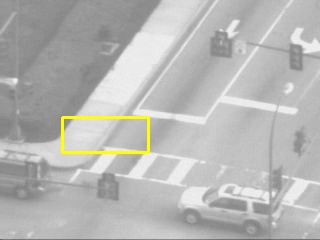
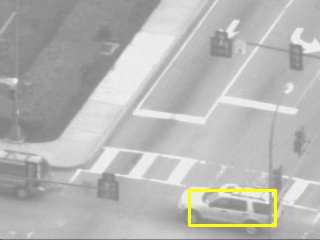
testing HW3 Q1.4

Changed region(s): [[0.5625, 0.7583, 0.875, 0.9625], [0.1875, 0.4667, 0.4688, 0.6708]]

diff --git a/HW3/code/testCarSequenceWithTemplateCorrection.py b/HW3/code/testCarSequenceWithTemplateCorrection.py
@@ -2,5 +2,42 @@ import numpy as np
 import matplotlib.pyplot as plt
 from matplotlib import animation
 import matplotlib.patches as patches
+from LucasKanade import LucasKanade
+import cv2
 
 # write your script here, we recommend the above libraries for making your animation
+sequence = np.load('../data/carseq.npy',allow_pickle=True)
+rect = np.array([59, 116, 145, 151])[...,None].astype(np.float32)
+carseqrects = np.empty((sequence.shape[2],4))
+carseqrects[0] = rect.T.flatten()
+
+pre_p = None
+epsilon = 0.5
+ori_rects = np.load('carseqrects.npy')
+
+It = sequence[:,:,0]
+new_rect = np.empty_like(rect)
+for i in range(1, sequence.shape[2]):
+    It1 = sequence[:,:,i]
+    p =  LucasKanade(It,It1,rect)
+    new_rect[0] = p[0] + rect[0]
+    new_rect[2] = p[0] + rect[2]
+    new_rect[1] = p[1] + rect[1]
+    new_rect[3] = p[1] + rect[3]
+    
+    if i==1 or i == 100 or i==200 or i ==300 or i == 400:
+        img = np.dstack((It1,It1,It1)).copy()
+        cv2.rectangle(img, (np.round(new_rect[0][0]).astype(int), np.round(new_rect[1][0]).astype(int)), (np.round(new_rect[2][0]).astype(int), np.round(new_rect[3][0]).astype(int)), color=(0,255,255), thickness=2)
+        cv2.rectangle(img, (np.round(ori_rects[i][0]).astype(int), np.round(ori_rects[i][1]).astype(int)), (np.round(ori_rects[i][2]).astype(int), np.round(ori_rects[i][3]).astype(int)), color=(0,255,0), thickness=2)
+        cv2.imwrite('q1-4_{}.jpg'.format(i), img*255)
+    
+    if pre_p is None or np.sqrt(np.sum((p-pre_p)**2)) < epsilon :
+        It = sequence[:,:,i]
+        rect = new_rect
+        pre_p = np.empty_like(p)
+        pre_p[:] = p
+    carseqrects[i] = rect.T.flatten()
+    
+        
+rect_list = np.array(carseqrects)
+np.save('carseqrects-wcrt.npy', carseqrects)

diff --git a/HW3/code/LucasKanade.py b/HW3/code/LucasKanade.py
@@ -27,7 +27,8 @@ def LucasKanade(It, It1, rect, p0 = np.zeros(2)):
         x_coor_wrapped = p[0] + x_coor
         y_coor_wrapped = p[1] + y_coor
         It1_wrapped = rect_It1_spline.ev(y_coor_wrapped,x_coor_wrapped)
-        b = It1_wrapped.flatten() - It_rect.flatten()
+        b = It_rect.flatten() - It1_wrapped.flatten()
+        
 
         y_gradient = rect_It1_spline.ev(y_coor_wrapped,x_coor_wrapped,dx = 1,dy = 0).flatten()
         x_gradient = rect_It1_spline.ev(y_coor_wrapped,x_coor_wrapped,dx = 0,dy=1).flatten()

diff --git a/HW3/code/testCarSequence.py b/HW3/code/testCarSequence.py
@@ -12,7 +12,7 @@ carseqrects = np.empty((sequence.shape[2],4))
 carseqrects[0] = rect.T.flatten()
 
 
-for i in [1,100]:
+for i in range(1, sequence.shape[2]):
     It = sequence[:,:,i-1]
     It1 = sequence[:,:,i]
     p =  LucasKanade(It,It1,rect)
